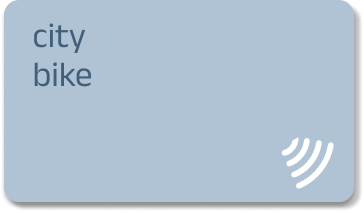
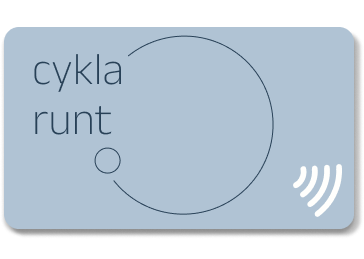
Designed new contactless cards and updated the pictures on join page.

diff --git a/styles.css b/styles.css
@@ -143,7 +143,7 @@ footer {
 
 .bannerSecondary {
     background-color: #B0C3D4;
-    height: 450px;
+    height: 500px;
 }
 
 .bannerSecondaryText {
@@ -277,7 +277,6 @@ input[type=text] {
 
 .joinCard {
     float: left;
-    margin-top: 50px;
     margin-left: 200px
 }
 
